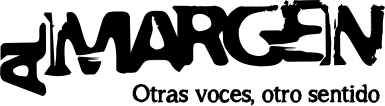
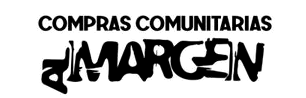
Fixes trello

diff --git a/components/cards/ProductCard.tsx b/components/cards/ProductCard.tsx
@@ -1,96 +1,74 @@
+import { Card, Grid, Text, Row, Button, Popover, Avatar } from '@nextui-org/react';
 
-import {
-  Card,
-  Grid,
-  Text,
-  Row,
-  Button,
-  Popover,
-  Avatar,
-} from "@nextui-org/react";
-
-import { FontAwesomeIcon } from "@fortawesome/react-fontawesome";
-import { faFaceLaughBeam } from "@fortawesome/free-solid-svg-icons";
-import { useEffect, useState } from "react";
-import { useCart } from "../../src/hooks/CartHook";
-
+import { FontAwesomeIcon } from '@fortawesome/react-fontawesome';
+import { faFaceLaughBeam } from '@fortawesome/free-solid-svg-icons';
+import { useEffect, useState } from 'react';
+import { useCart } from '../../src/hooks/CartHook';
+import { toast } from 'react-toastify';
 
 export default function ProductCard({ item, addProduct }) {
-  const cart = useCart();
-  const [quantity, setQuantity] = useState(1);
+	const cart = useCart();
+	const [quantity, setQuantity] = useState(1);
 
-  useEffect(() => {
-    const qty = cart.getCartProductQty(item.code);
-    setQuantity(qty);
-  }, [cart.Cart])
-  return (
-    <Grid xs={12} sm={12} md={12} lg={12} xl={12}>
-      <Card css={{ margin: 0, letterSpacing: 0 }}>
-        <Card.Body className="product-container">
-          <Row className="text-container">
-            <Grid sm={7} xs={7} lg={6} md={6} xl={6} justify="center">
-              <Avatar
-                css={{width:100,height:100}}
-                className="product-image"
-                src={item.picture}
-              />
-            </Grid>
-            <Grid className="details-container" lg={6} md={6} xl={6}>
-              <Text className="product-name">{item.name}</Text>
-              <Text className="product-reference">{item.minimum}</Text>
-              <Text className="product-supplier">
-                <FontAwesomeIcon icon={faFaceLaughBeam} />
-                {item.seller}
-              </Text>
-              <Text className="product-price">${item.price}</Text>
-            </Grid>
-          </Row>
-          <Row>
-            <Grid
-              sm={7}
-              xs={7}
-              lg={6}
-              md={6}
-              xl={6}
-              className="product-quantity"
-              justify="center"
-            >
-              <Text
-                className="quantity-border"
-                onClick={() => {
-                  if (quantity > 1) setQuantity((prev) => prev - 1);
-                }}
-              >
-                -
-              </Text>
-              <Text className="quantity">{quantity}</Text>
-              <Text
-                className="quantity-border"
-                onClick={() => {
-                  setQuantity((prev) => prev + 1);
-                }}
-              >
-                +
-              </Text>
-            </Grid>
-            <Grid sm={3} xs={3} lg={6} md={6} xl={6}>
-              <Popover>
-                <Popover.Trigger>
-                  <Button  onClick={() => addProduct(item, quantity)} className="button-text" css={{backgroundColor:"#F29400",color:"black", fontWeight: 400}} auto flat>
-                    Agregar
-                  </Button>
-                </Popover.Trigger>
-                <Popover.Content>
-                  <Text css={{ p: "$10" }}>
-                    Agregado exitosamente!
-                  </Text>
-                </Popover.Content>
-              </Popover>
-
-            </Grid>
-          </Row>
-        </Card.Body>
-      </Card>
-    </Grid>
-  );
+	useEffect(() => {
+		const qty = cart.getCartProductQty(item.code);
+		setQuantity(qty);
+	}, [cart.Cart]);
+	return (
+		<Grid xs={12} sm={12} md={12} lg={12} xl={12}>
+			<Card css={{ margin: 0, letterSpacing: 0 }}>
+				<Card.Body className="product-container">
+					<Row className="text-container">
+						<Grid sm={7} xs={7} lg={6} md={6} xl={6} justify="center">
+							<Avatar css={{ width: 100, height: 100 }} className="product-image" src={item.picture} />
+						</Grid>
+						<Grid className="details-container" lg={6} md={6} xl={6}>
+							<Text className="product-name">{item.name}</Text>
+							<Text className="product-reference">{item.minimum}</Text>
+							<Text className="product-supplier">
+								<FontAwesomeIcon icon={faFaceLaughBeam} />
+								{item.seller}
+							</Text>
+							<Text className="product-price">${item.price}</Text>
+						</Grid>
+					</Row>
+					<Row>
+						<Grid sm={7} xs={7} lg={6} md={6} xl={6} className="product-quantity" justify="center">
+							<Text
+								className="quantity-border"
+								onClick={() => {
+									if (quantity > 1) setQuantity(prev => prev - 1);
+								}}
+							>
+								-
+							</Text>
+							<Text className="quantity">{quantity}</Text>
+							<Text
+								className="quantity-border"
+								onClick={() => {
+									setQuantity(prev => prev + 1);
+								}}
+							>
+								+
+							</Text>
+						</Grid>
+						<Grid sm={3} xs={3} lg={6} md={6} xl={6}>
+							<Button
+								onClick={() => {
+									addProduct(item, quantity);
+									toast.success('Agregado exitosamente');
+								}}
+								className="button-text"
+								css={{ backgroundColor: '#F29400', color: 'black', fontWeight: 400 }}
+								auto
+								flat
+							>
+								Agregar
+							</Button>
+						</Grid>
+					</Row>
+				</Card.Body>
+			</Card>
+		</Grid>
+	);
 }

diff --git a/components/navigation/Header.tsx b/components/navigation/Header.tsx
@@ -4,6 +4,7 @@ import { Cart, UserLogged } from '../../src/global/types';
 import { useRouter } from 'next/router';
 import { CartIcon } from '../svg/CartIcon';
 import { FontAwesomeIcon } from '@fortawesome/react-fontawesome';
+import { faArrowRightFromBracket } from '@fortawesome/free-solid-svg-icons';
 
 type HeaderProps = {
 	title: string;
@@ -18,22 +19,37 @@ const Header: React.FC<HeaderProps> = ({ title, user, cart }) => {
 		<div className="header">
 			{user.logged && (
 				<div className="buttons-container">
-					<div style={{cursor: "pointer"}}>
-					<Image width={100} onClick={() => router.push('/')} src="/../../img/logo-desktop.png" objectFit='contain'/>
+					<div style={{ cursor: 'pointer' }}>
+						<Image
+							width={100}
+							onClick={() => router.push('/')}
+							src="/../../img/almargen-header.png"
+							objectFit="contain"
+						/>
 					</div>
 					<div className="sessions-buttons">
 						<Button className="logout-button" onClick={() => router.push('/api/logout')}>
-							Cerrar Sesión ({user.name})
+							{/* Cerrar Sesión ({user.name}) */}
+							Salir
+							<FontAwesomeIcon className="logout-icon" icon={faArrowRightFromBracket}></FontAwesomeIcon>
 						</Button>
 						{cart && (
-							<Badge css={{ cursor: 'pointer' }} color="warning" content={cart.products.length} shape="circle" onClick={() => router.push('/cart')}>
+							<Badge
+								css={{ cursor: 'pointer' }}
+								color="warning"
+								content={cart.products.length}
+								shape="circle"
+								onClick={() => router.push('/cart')}
+							>
 								<CartIcon fill="white" size={30} width={24} height={24} onClick={() => router.push('/cart')} />
 							</Badge>
 						)}
 					</div>
 				</div>
 			)}
-			<Text className="header-text" css={{fontWeight: '700'}}>{title}</Text>
+			<Text className="header-text" css={{ fontWeight: '700' }}>
+				{title}
+			</Text>
 		</div>
 	);
 };

diff --git a/components/navigation/Footer.tsx b/components/navigation/Footer.tsx
@@ -8,7 +8,7 @@ export default function Footer() {
 	const year = today.getFullYear();
 	return (
 		<>
-			<Grid.Container css={{ backgroundColor: '#F9F9F9', overflowX: 'hidden',margin:'0px' }} gap={2}>
+			<Grid.Container css={{ backgroundColor: '#F9F9F9', overflowX: 'hidden', margin: '0px' }} gap={2}>
 				<Grid xs={12} sm={12} md={3} lg={4} xl={4}>
 					<Image width={200} src="/../../img/almargen.png" />
 				</Grid>
@@ -41,7 +41,7 @@ export default function Footer() {
 					width: '100%',
 					height: '100%',
 					marginBottom: 0,
-					overflowX:'hidden'
+					overflowX: 'hidden'
 				}}
 			>
 				<Text css={{ color: 'white', fontSize: 15 }}>© Copyright - {year} Al Margen compras comunitarias</Text>

diff --git a/sass/components/header.scss b/sass/components/header.scss
@@ -35,18 +35,20 @@
         justify-content: end;
         
         .logout-button {
-            background-color: $main;
-            color:black;
+            background-color: transparent;
+            color:white;
             font-family: 'Roboto';
             font-style: normal;
             font-weight: 500;
             font-size: 14px;
             line-height: 110%;
             height: 31px;
-            border-radius: 8px;    
+            min-width: -webkit-fill-available;
         }
     }
-
+    .logout-icon {
+        margin-left: 10px!important;
+    }
 }
 
 @media (min-width: 668px) and (max-width: 2200px) {

diff --git a/sass/_style.scss b/sass/_style.scss
@@ -8,6 +8,7 @@ body {
 }
 p {
   font-family: $font !important;
+  letter-spacing: 0!important;
 }
 
 // Product component styles
